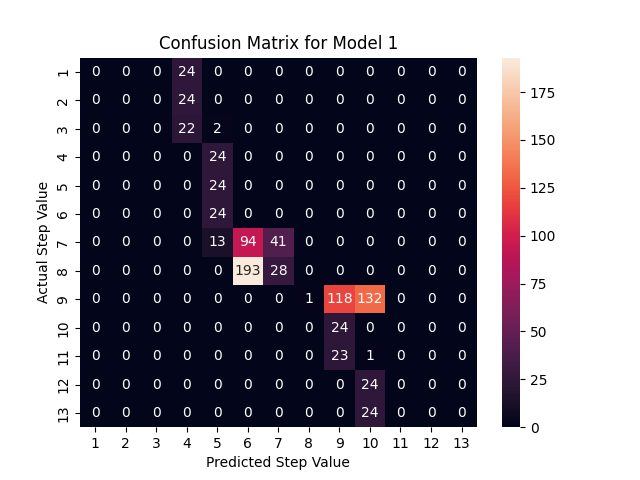
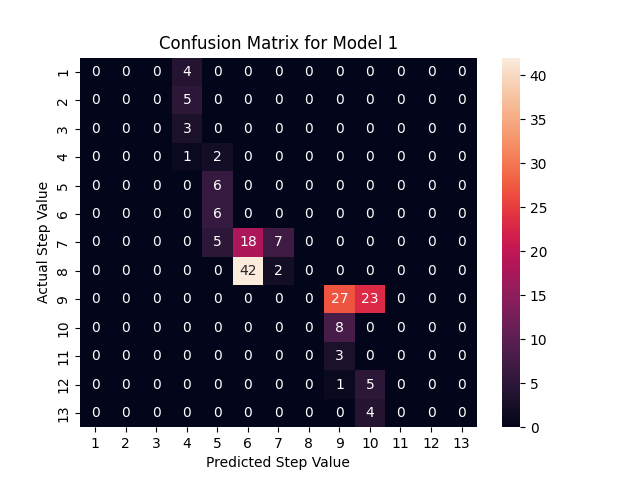
final commit

diff --git a/AER850Project1.py b/AER850Project1.py
@@ -4,6 +4,7 @@ import matplotlib.pyplot as plt
 import math
 import seaborn as sns
 import joblib
+import sys
 from sklearn.model_selection import StratifiedShuffleSplit
 from sklearn.preprocessing import StandardScaler
 from sklearn.linear_model import LinearRegression
@@ -11,23 +12,47 @@ from sklearn.ensemble import RandomForestRegressor
 from sklearn.tree import DecisionTreeRegressor
 from sklearn.model_selection import cross_val_score, GridSearchCV
 from sklearn.metrics import mean_absolute_error, accuracy_score, precision_score, f1_score, confusion_matrix
+from sklearn.model_selection import train_test_split
+
+
+# output_file = open('output_posttuning.txt', 'w')
+output_file = open('output_pretuning.txt', 'w')
+
+sys.stdout = output_file
 
 #-----2.1 Data Processing-----
 data_path = 'data\Project 1 Data.csv'
 df = pd.read_csv(data_path)
 df = df.replace(0, -1) #encode ths Zeros to a recognizable value as NaN values are not supported for Regression Models 
 df = df.dropna()
-df = df.reset_index(drop=True) 
-train_y = df['Step']
-df_X = df.drop(columns = ["Step"])
+df = df.reset_index(drop=True)
+print(df)
+
+
+split = StratifiedShuffleSplit(n_splits=1, test_size=0.2, random_state=16)
+for train_index, test_index in split.split(df, df["Y"]):
+    strat_train_set = df.loc[train_index].reset_index(drop=True)
+    strat_test_set = df.loc[test_index].reset_index(drop=True)
+
+train_y = strat_train_set['Step']
+df_x = strat_train_set.drop(columns = ["Step"])
+
+test_y = strat_test_set['Step']
+test_x = strat_test_set.drop(columns = ["Step"])
 
 #scaling the variables 
 my_scaler = StandardScaler()
-my_scaler.fit(df_X.iloc[:,:])
-scaled_data = my_scaler.transform(df_X.iloc[:,:])
-scaled_data_df = pd.DataFrame(scaled_data, columns=df_X.columns[:])
-train_X = scaled_data_df
-columns_list = train_X.columns.tolist()
+my_scaler.fit(df_x.iloc[:,:])
+scaled_data = my_scaler.transform(df_x.iloc[:,:])
+scaled_data_df = pd.DataFrame(scaled_data, columns=df_x.columns[:])
+train_x = scaled_data_df
+
+my_scaler.fit(test_x.iloc[:,:])
+scaled_data = my_scaler.transform(test_x.iloc[:,:])
+scaled_data_df = pd.DataFrame(scaled_data, columns=test_x.columns[:])
+test_x = scaled_data_df
+
+columns_list = train_x.columns.tolist()
 
 #-----2.2 Data Visualization-----
 attributes = ["X", "Y", "Z","Step"]
@@ -40,13 +65,9 @@ plt.show()
 #-----2.3 Corelation Analysis-----
 #Pearsons Method
 correlation_matrix = df.corr()
-print(correlation_matrix)
 plt.title('Pearson Correlation Matrix')
 sns.heatmap(np.abs(correlation_matrix), annot=True)
 plt.savefig("C:/Users/Owner/Documents/Python/GitHub/Plots/Pearson's Correlation Matrix.png")
-colormap = plt.get_cmap()
-colormap_name = colormap.name
-print(colormap_name)
 plt.show()
 corr1 = np.corrcoef(df['X'], df['Step'])
 print("X correlation with Step is: ", round(corr1[0,1],2))
@@ -59,47 +80,45 @@ print("Z correlation with Step is: ", corr1[0,1])
 #-----2.4 Classification Model Development/Engineering-----
 #Model 1: Linear Regressor 
 model1 = LinearRegression()
-model1.fit(train_X, train_y)
+model1.fit(train_x, train_y)
 
-model1_prediction = model1.predict(train_X)
+model1_prediction = model1.predict(test_x)
 from sklearn.metrics import mean_absolute_error
-model1_train_mae = mean_absolute_error(model1_prediction, train_y)
+model1_train_mae = mean_absolute_error(model1_prediction, test_y)
 print("Model 1 training MAE is: ", round(model1_train_mae,2))
-#Model 1 training MAE is:  0.76.
 
 
 #Model 2: Random Forest Regressor 
-# model2 = RandomForestRegressor(n_estimators=10, random_state=16) #Pre Grid Search
-model2 = RandomForestRegressor(max_depth = None, max_features = 'sqrt', min_samples_leaf= 1, min_samples_split= 10, n_estimators=30, random_state=16)
-model2.fit(train_X, train_y)
-model2_predictions = model2.predict(train_X)
-model2_train_mae = mean_absolute_error(model2_predictions, train_y)
+model2 = RandomForestRegressor(n_estimators=30, random_state=16) #Pre Grid Search
+# model2 = RandomForestRegressor(max_depth = None, max_features = 'sqrt', min_samples_leaf= 1, min_samples_split= 2, n_estimators=10, random_state=16)
+model2.fit(train_x, train_y)
+model2_predictions = model2.predict(test_x)
+model2_train_mae = mean_absolute_error(model2_predictions, test_y)
 print("Model 2 training MAE is: ", round(model2_train_mae,2))
-#Model 2 training MAE is:  0.01
 
 
 #Model 3: Decision Tree Regressor
-# model3= DecisionTreeRegressor() #Pre Grid Search
-model3 = DecisionTreeRegressor(criterion='absolute_error', max_depth=10, max_features='log2', max_leaf_nodes=None, min_impurity_decrease=0.0, min_samples_leaf=4, min_samples_split=5)
-model3.fit(train_X, train_y)
-model3_predictions = model3.predict(train_X)
-model3_train_mae = mean_absolute_error(model3_predictions, train_y)
+model3= DecisionTreeRegressor() #Pre Grid Search
+# model3 = DecisionTreeRegressor(criterion='absolute_error', max_depth=10, max_features='sqrt', max_leaf_nodes=20, min_impurity_decrease=0.0, min_samples_leaf=2, min_samples_split=10, random_state=16)
+model3.fit(train_x, train_y)
+model3_predictions = model3.predict(test_x)
+model3_train_mae = mean_absolute_error(model3_predictions, test_y)
 print("Model 3 training MAE is: ", round(model3_train_mae,2))
-#Model 3 training MAE is: 0.0
+
 
 #Cross Validation
 # Perform k-fold cross-validation for Model 1
-scores_model1 = cross_val_score(model1, train_X, train_y, cv=5, scoring='neg_mean_absolute_error')
+scores_model1 = cross_val_score(model1, train_x, train_y, cv=5, scoring='neg_mean_absolute_error')
 mae_model1 = -scores_model1.mean()
 print("Model 1 Mean Absolute Error (CV):", round(mae_model1, 2))
 
 # Perform k-fold cross-validation for Model 2
-scores_model2 = cross_val_score(model2, train_X, train_y, cv=5, scoring='neg_mean_absolute_error')
+scores_model2 = cross_val_score(model2, train_x, train_y, cv=5, scoring='neg_mean_absolute_error')
 mae_model2 = -scores_model2.mean()
 print("Model 2 Mean Absolute Error (CV):", round(mae_model2, 2))
 
 # Perform k-fold cross-validation for Model 3
-scores_model3 = cross_val_score(model3, train_X, train_y, cv=5, scoring='neg_mean_absolute_error')
+scores_model3 = cross_val_score(model3, train_x, train_y, cv=5, scoring='neg_mean_absolute_error')
 mae_model3 = -scores_model3.mean()
 print("Model 3 Mean Absolute Error (CV):", round(mae_model3, 2))
 
@@ -108,7 +127,7 @@ param_grid = {
     'fit_intercept': [True, False]
 }
 grid_search = GridSearchCV(model1, param_grid={}, cv=5, scoring='neg_mean_squared_error')
-grid_search.fit(train_X, train_y)
+grid_search.fit(train_x, train_y)
 best_params = grid_search.best_params_
 print("Best Hyperparameters for Model 1:", best_params)
 
@@ -121,7 +140,7 @@ param_grid = {
     'max_features': ['sqrt', 'log2']
 }
 grid_search = GridSearchCV(model2, param_grid, cv=5, scoring='neg_mean_absolute_error', n_jobs=-1)
-grid_search.fit(train_X, train_y)
+grid_search.fit(train_x, train_y)
 best_params = grid_search.best_params_
 print("Best Hyperparameters for Model 2:", best_params)
 best_model2 = grid_search.best_estimator_
@@ -137,29 +156,28 @@ param_grid = {
     'min_impurity_decrease': [0.0, 0.01, 0.1]
 }
 grid_search = GridSearchCV(model3, param_grid, cv=5, scoring='neg_mean_absolute_error', n_jobs=-1)
-grid_search.fit(train_X, train_y)
+grid_search.fit(train_x, train_y)
 best_params = grid_search.best_params_
 print("Best Hyperparameters for Model 3:", best_params)
 best_model3 = grid_search.best_estimator_
 
-train_y = pd.DataFrame(train_y)
+
+#-----2.5 Model Performance Analysis-----
+test_y = pd.DataFrame(test_y)
 model1_prediction = pd.DataFrame(model1_prediction).astype(int)
 model2_predictions = pd.DataFrame(model2_predictions).astype(int)
 model3_predictions = pd.DataFrame(model3_predictions).astype(int)
-
-#-----2.5 Model Performance Analysis-----
-
 #Model 1
 ##Scores
-accuracym1 = accuracy_score(train_y.iloc[:, 0], model1_prediction.iloc[:, 0])
-precisionm1 = precision_score(train_y.iloc[:, 0], model1_prediction.iloc[:, 0], average= 'weighted')
-f1m1 = f1_score(train_y.iloc[:, 0], model1_prediction.iloc[:, 0], average= 'weighted')
+accuracym1 = accuracy_score(test_y.iloc[:, 0], model1_prediction.iloc[:, 0])
+precisionm1 = precision_score(test_y.iloc[:, 0], model1_prediction.iloc[:, 0], average= 'weighted')
+f1m1 = f1_score(test_y.iloc[:, 0], model1_prediction.iloc[:, 0], average= 'weighted')
 print("The accuracy score for Model 1 is:",round(accuracym1,2) )
 print("The precision score for Model 1 is:",round(precisionm1,2) )
 print("The F1 score for Model 1 is:",round(f1m1,2) )
 
 ##Confusion Matrix 
-cm1 = confusion_matrix(train_y.iloc[:, 0], model1_prediction.iloc[:, 0])
+cm1 = confusion_matrix(test_y.iloc[:, 0], model1_prediction.iloc[:, 0])
 class_labels = [str(i) for i in range(1, 14)]
 sns.heatmap(cm1, annot=True, fmt='d', xticklabels=class_labels, yticklabels=class_labels)
 plt.title('Confusion Matrix for Model 1')
@@ -171,15 +189,15 @@ plt.show()
 
 #Model 2
 ##Scores
-accuracym2 = accuracy_score(train_y.iloc[:, 0], model2_predictions.iloc[:, 0])
-precisionm2 = precision_score(train_y.iloc[:, 0], model2_predictions.iloc[:, 0], average= 'weighted')
-f1m2 = f1_score(train_y.iloc[:, 0], model2_predictions.iloc[:, 0], average= 'weighted')
+accuracym2 = accuracy_score(test_y.iloc[:, 0], model2_predictions.iloc[:, 0])
+precisionm2 = precision_score(test_y.iloc[:, 0], model2_predictions.iloc[:, 0], average= 'weighted')
+f1m2 = f1_score(test_y.iloc[:, 0], model2_predictions.iloc[:, 0], average= 'weighted')
 print("The accuracy score for Model 2 is:",round(accuracym2,2))
 print("The precision score for Model 2 is:",round(precisionm2,2))
 print("The F1 score for Model 2 is:",round(f1m2,2))
 
 ##Confusion Matrix 
-cm2 = confusion_matrix(train_y.iloc[:, 0], model2_predictions.iloc[:, 0])
+cm2 = confusion_matrix(test_y.iloc[:, 0], model2_predictions.iloc[:, 0])
 class_labels = [str(i) for i in range(1, 14)]
 sns.heatmap(cm2, annot=True, fmt='d', xticklabels=class_labels, yticklabels=class_labels)
 plt.title('Confusion Matrix for Model 2')
@@ -190,15 +208,15 @@ plt.show()
 
 #Model 3
 ##Scores
-accuracym3 = accuracy_score(train_y.iloc[:, 0], model3_predictions.iloc[:, 0])
-precisionm3 = precision_score(train_y.iloc[:, 0], model3_predictions.iloc[:, 0], average= 'weighted')
-f1m3 = f1_score(train_y.iloc[:, 0], model3_predictions.iloc[:, 0], average= 'weighted')
+accuracym3 = accuracy_score(test_y.iloc[:, 0], model3_predictions.iloc[:, 0])
+precisionm3 = precision_score(test_y.iloc[:, 0], model3_predictions.iloc[:, 0], average= 'weighted')
+f1m3 = f1_score(test_y.iloc[:, 0], model3_predictions.iloc[:, 0], average= 'weighted')
 print("The accuracy score for Model 3 is:",accuracym3 )
 print("The precision score for Model 3 is:",precisionm3 )
 print("The F1 score for Model 3 is:",f1m3 )
 
 ##Confusion Matrix 
-cm3 = confusion_matrix(train_y.iloc[:, 0], model3_predictions.iloc[:, 0])
+cm3 = confusion_matrix(test_y.iloc[:, 0], model3_predictions.iloc[:, 0])
 class_labels = [str(i) for i in range(1, 14)]
 sns.heatmap(cm3, annot=True, fmt='d', xticklabels=class_labels, yticklabels=class_labels)
 plt.title('Confusion Matrix for Model 3')
@@ -215,3 +233,5 @@ validation_data = [[9.375,3.0625,1.51], [6.995,5.125,0.3875], [0,3.0625,1.93], [
 validation_data_scaled = my_scaler.transform(validation_data)
 predictions = loaded_model3.predict(validation_data_scaled)
 print('The predicted values are: ', predictions)
+
+output_file.close()
